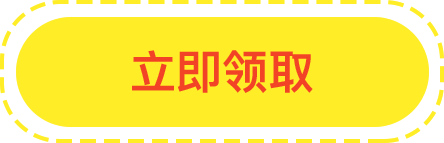
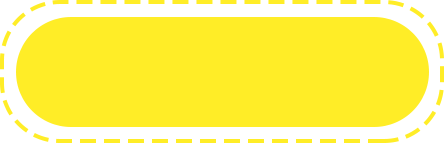
fix some bugs

Changed region(s): [[0.2928, 0.3357, 0.7027, 0.6713]]

diff --git a/ttsd-frontend-manage/resources/static/activity/styles/coupon_special_2017.scss b/ttsd-frontend-manage/resources/static/activity/styles/coupon_special_2017.scss
@@ -159,20 +159,23 @@ body {
       line-height: 80px;
     }
 
-    .btn-receive,.btn-receive-disabled {
+    .btn-receive {
       display: inline-block;
       width:60%;
-      height: 86px;
-      background: url('../images/2017/coupon-special/btn-receive.png') left top no-repeat;
-      background-size: 100%;
+      height: 74px;
+      background: url('../images/2017/coupon-special/btn-receive.png') center center no-repeat;
+      background-size: contain;
       border: 0;
       cursor: pointer;
-    }
-    .btn-receive-disabled {
-      background: url('../images/2017/coupon-special/btn-receive-disable.png') left top no-repeat;
-      background-size: 100%;
-    }
+      font-size: 23px;
+      color: #f34326;
 
+      &:disabled {
+        background: url('../images/2017/coupon-special/btn-receive-disable.png') center center no-repeat;
+        background-size: contain;
+        color: #f3d2cd;
+      }
+    }
   }
 
   &.success-box {
@@ -301,42 +304,19 @@ body {
       }
     }
     .wechat-scan {
+      text-align: center;
+      img {
+        width:70%;
+        margin-top:20px;
+        margin-bottom:20px;
+      }
       h1 {
         font-size:20px;
         padding: 20px 0 0 0;
       }
       .img-list {
-        width:100%;
-        height: 380px;
-        margin:0 auto;
-        .one {
-          width:100%;
-          background-size: 100%;
-          float: none;
-          margin: 0 auto;
-          .word-pc {
-            display: none;
-          }
-          .word-mobile {
-            display: block;
-            font-size:12px;
-            color: #fff;
-            text-align: center;
-            position: absolute;
-            left:0;
-            top: 65%;
-            width: 100%;
-            height: 48px;
-            line-height: 20px;
+        display: none;
 
-            em {
-              font-size:14px;
-              color: #fffe54;
-            }
-
-          }
-
-        }
       }
 
       .two {
@@ -349,24 +329,12 @@ body {
 }
 
 @media screen and(max-width: 400px){
-  .activity-frame-box .wechat-scan .img-list .one .word-mobile {
-    top:59%;
-  }
 
   .wechat-frame-box .text-box { bottom:32px;}
 }
 
 @media screen and(max-width: 360px){
-  .activity-frame-box .wechat-scan .img-list {
-    height:292px;
-  }
-  .activity-frame-box .wechat-scan .img-list .one .word-mobile {
-    top:63%;
-  }
-  .wechat-frame-box .text-box {
-    bottom: auto;
-    top: 73%;
-  }
+
   .wechat-frame-box .text-box span {
     line-height: 46px;
   }
@@ -375,6 +343,13 @@ body {
     height: 120px;
   }
 }
+
+@media screen and(max-width: 320px){
+  .wechat-frame-box .text-box {
+    bottom: 8px;
+  }
+}
+
 
 
 

diff --git a/ttsd-frontend-manage/resources/static/activity/js/coupon_special_2017.jsx b/ttsd-frontend-manage/resources/static/activity/js/coupon_special_2017.jsx
@@ -8,6 +8,7 @@ let $wechatCoupon = $('#wechatCouponSpecial');
 if($('#pcCouponSpecial').length) {
 
     let redBagUrl = require('../images/2017/coupon-special/red-all.png');
+    let redBagBottomUrl = require('../images/2017/coupon-special/bg-red.png');
     let topHeaderUrl = require('../images/2017/coupon-special/head-coupon-wap.png');
     document.getElementById('redBag').src = redBagUrl;
 
@@ -17,16 +18,30 @@ if($('#pcCouponSpecial').length) {
         topImg.onload = function() {
             $('#topHeader').append(topImg);
         }
+        let locationUrl = location.href;
+        let parseURL = globalFun.parseURL(locationUrl);
+        let IsShare = parseURL.params.from;
+        if(IsShare=='wechat') {
+            $('.header-container,.nav-container,.nav-container,.footer-responsive').hide();
+        }
+
+        let  bottomImg= new Image();
+        bottomImg.src = redBagBottomUrl;
+        bottomImg.onload = function() {
+            $('#mobileImg').append(bottomImg);
+        }
+
     }
 } else if($wechatCoupon.length) {
     $('.btn-receive',$wechatCoupon).on('click',function() {
-        $(this).prop('disabled',true);
         let drew = $wechatCoupon.data('drew');
         if(drew) {
             layer.msg('每个用户只能领取一次哦！');
         } else {
             location.href='/activity/celebration-coupon/draw';
         }
+        $(this).prop('disabled',true);
+
     });
 
 }
